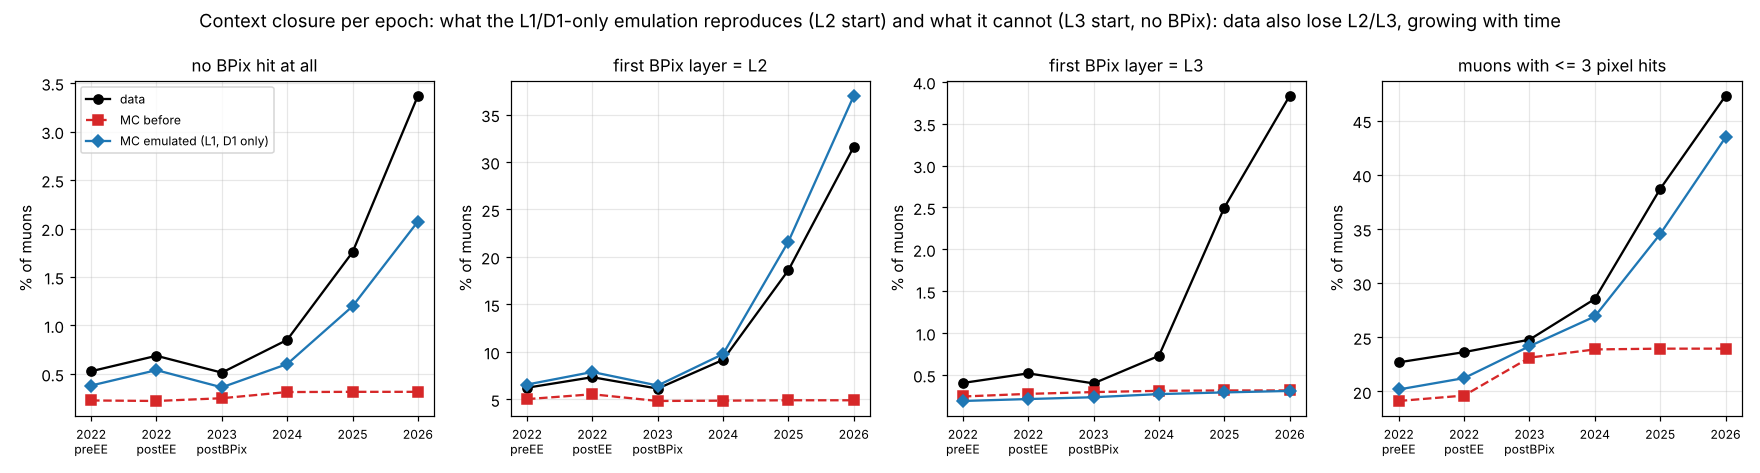
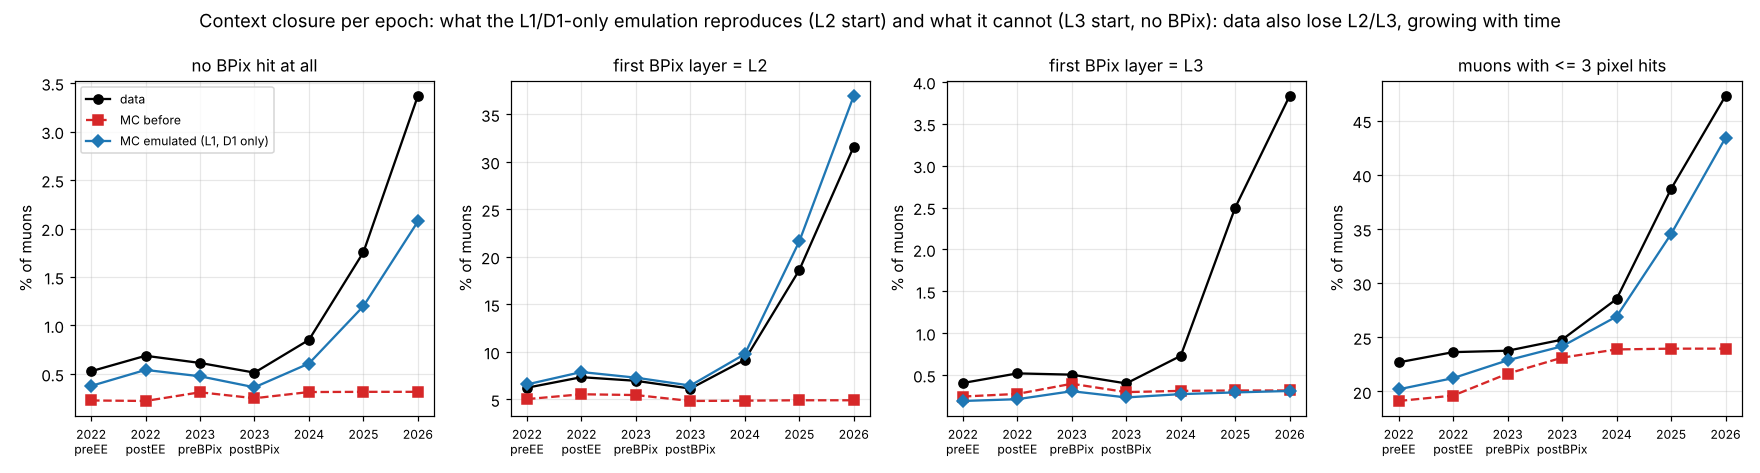
HITEMU.md 10.13: route A closes in all seven epochs (2025, 2026 added); figures refreshed with the complete rerun
Claude-Session: https://claude.ai/code/session_01RJFvZDqk7RAuPdwvriR8KC

diff --git a/HITEMU.md b/HITEMU.md
@@ -424,7 +424,7 @@ With routes the same page gains three curves. Until they are run on real data, h
 
 With route B the last step (6) is to retrain covflow's MC side on the emulated MC (`WRITE_TREE = 1` in `run_hitemu.csh`; `emu_<epoch>_routeB.json` lists which branches are replaced).
 
-**Status after the per-epoch run with flows (section 10.13, 8 Oct 2026): route A.** It closes on the dead-cell target in every epoch (L1: within 0.03, 2024: −0.008), route B does not. Route A is split into an MC-only morph plus the usual covflow, so the emulated MC tree needs no retraining (`--tree-route A`, the default).
+**Status after the per-epoch run with flows (section 10.13, 8 Oct 2026): route A.** It closes on the dead-cell target in every epoch (L1: within 0.03; 2024 −0.008, 2025 −0.010, 2026 −0.003), route B does not. Route A is split into an MC-only morph plus the usual covflow, so the emulated MC tree needs no retraining (`--tree-route A`, the default).
 
 ---
 
@@ -874,7 +874,7 @@ Ranked by how much they matter for the analysis. "Section" points to the explana
 | 7 | **D1 is starved in the small epochs:** up to 54% of the D1 probes of a range take their value from neighbouring ranges (2023_preBPix range 2; 2022_preEE 27–33%) | Range size is set by L1 only (≥ 40 probes per L1 cell); D1 has fewer probes per cell | moderate: D1 in 2022–23 is followed with a delay | 10.9 |
 | 8 | **Mixture test fails for D1 in 2022–2023 data**: W0 has 19–38% wider σ(dxy) than D0 (KS 0.17–0.29) | Not statistics: the "dead" D1 cells of 2022–23 are the disk's outer ring (94–100% of D0 probes at r > 13.8 cm), where data and MC disk radii differ. **Fixed:** data D0 cells must be alive in MC | the test was comparing with the wrong population | 10.10 |
 | 9 | **Route B is skipped in 2022_preEE and 2023_postBPix**; elsewhere it moves σ(dxy) by only 0.02–0.03 in log10 out of 0.2–0.27; the D1 hit errors sit at the 500 µm bound | Too few dead cells for a fit (early epochs); one V per \|η\| bin pinned by non-PD tracks (known, section 9.8) | none any more: **route B is dropped** (route A closes; B, final is worse than no correction, section 10.13) | 10.11, 10.13 |
-| 10 | **Files and logs missing from the copy**: `2022_preEE/noL1_mc` and `2023_preBPix/emu` are empty folders, though the summary says OK; only two logs (2022_preEE steps 1–2) | Partial copy from t3ui07 | only for this review | 10.1 |
+| 10 | **Files and logs missing from the copy** (first run) | Partial copy from t3ui07 | **solved** in the rerun | 10.1 |
 | 11 | **Closure residuals all negative on L1/D1 (−0.04 to −0.15%)** in the early epochs | The floor 0.2 on w_nohit (fixed: default 0 since the mask commit) | small; gone at the next run | 10.3 |
 | 12 | 2022_preEE and 2022_postEE both use `pu_weight_2022` | Probably one 2022 PU profile in the ntuples; the two MC samples differ (Summer22 / Summer22EE), so the maps differ | minor; check the pre/post-EE PU profiles | 10.1 |
 
@@ -882,13 +882,13 @@ Ranked by how much they matter for the analysis. "Section" points to the explana
 
 ![status](docs/hitemu_figs/e08_status.png)
 
-*Per epoch (rows) and step (columns). Green: output present. Yellow: the summary says the step ran, but its files are not in the copy on the Mac. Red: route B could not run (no hit-error fit, see 10.11). Grey: route A never ran, in any epoch, because no trained flows were found.*
+*Per epoch (rows) and step (columns), for the rerun of 8 October with the correct flow directory. Green: output present. Red: route B could not run (no hit-error fit, see 10.11). In the first run (7 October) route A was missing everywhere (no flows found under the wrong `RUNS` tag), and two outputs plus most logs were missing from the copy; both are solved.*
 
 | epoch | data runs | run ranges | selected data events | MC events | MC PU weight | L1 ε data / MC | D1+ ε data / MC | D1− ε data / MC |
 |---|---|---|---|---|---|---|---|---|
 | 2022_preEE | 131 (355862–357900) | 3 | 238k | 0.31M | pu_weight_2022 | 0.929 / 0.944 | 0.960 / 0.967 | 0.968 / 0.986 |
 | 2022_postEE | 182 (359569–362760) | 7 | 928k | 1.14M | pu_weight_2022 | 0.915 / 0.940 | 0.957 / 0.970 | 0.963 / 0.986 |
-| 2023_preBPix | 125 (367095–368823) | 6 | 685k | (not copied) | pu_weight_2023 | 0.920 / 0.938 | 0.953 / 0.963 | 0.968 / 0.983 |
+| 2023_preBPix | 125 (367095–368823) | 6 | 685k | 0.67M | pu_weight_2023 | 0.920 / 0.938 | 0.953 / 0.963 | 0.968 / 0.983 |
 | 2023_postBPix | 43 (369927–370790) | 4 | 364k | 0.30M | pu_weight_2023 | 0.930 / 0.946 | 0.947 / 0.958 | 0.965 / 0.982 |
 | 2024 | 451 (379416–386951) | **8 (cap)** | 3.33M | **3.63M** | pu_weight_2024 | 0.894 / 0.946 | 0.952 / 0.959 | **0.893 / 0.871** |
 | 2025 | 458 (391688–398860) | **8 (cap)** | 3.25M | **3.63M (same)** | pu_weight_2025 | 0.773 / 0.945 | 0.914 / 0.960 | 0.821 / 0.879 |
@@ -896,13 +896,13 @@ Ranked by how much they matter for the analysis. "Section" points to the explana
 
 *Hit efficiency ε in nominal acceptance, MC averaged on the data illumination (as in the per-cell closure). D1− in 2024 is the only place where data is more efficient than MC (10.5).*
 
-**Route A (#1).** The driver looks for `$RUNS/<epoch>/mu1/task_0/covflow.json` and `…/mu2/…`. Not one epoch had both, so every emulation ran with route B alone (`OK_B`) and the route pages compare *raw* MC covariances with data. Check on t3ui07:
+**Route A (#1), solved 8 Oct.** The driver looks for `$RUNS/<epoch>/mu1/task_0/covflow.json` and `…/mu2/…`. In the first run not one epoch had both (wrong `RUNS` tag), so every emulation ran with route B alone (`OK_B`). With `RUNS = …/run3_epochs_05oct26_trgmatch_e1200` all seven epochs ran route A (section 10.13). The check, for the future:
 
 ```
 ls /work/manzoni/correct_track_covariance/covflow-runs/run3_epochs_05oct26/*/mu?/task_0/covflow.json
 ```
 
-**Missing files (#10).** On t3ui07 they should be in `hitemu/2022_preEE/noL1_mc/`, `hitemu/2023_preBPix/emu/` and `hitemu/logs/` (one log per epoch and step). The 2022_preEE emulation ran without route B (`OK_noB`), so its MC hit-error fit was empty too. Copy them over and the 2023_preBPix entries in the plots below fill in.
+**Missing files (#10), solved 8 Oct.** The rerun's copy is complete (all outputs, one log per epoch and step); the 2023_preBPix entries in the plots below are filled in. The 2022_preEE MC hit-error fit is empty too (0–16 D0 tracks per bin), hence `OK_A_noB` there.
 
 ### 10.2 One look at all of Run 3
 
@@ -920,7 +920,7 @@ How to read it:
 
 ![closure per epoch](docs/hitemu_figs/e02_closure_epochs.png)
 
-*Bars (left axis): hit efficiency ε in acceptance for data (black), MC before (red), MC after emulation (blue), per epoch. Right axis, %: emulated − data as observed (diamonds), and as expected from the kill maps alone, with the floor 0.2 used in this run (orange tick) and with the new default floor 0 (green tick). 2023_preBPix: the emulation output was not copied.*
+*Bars (left axis): hit efficiency ε in acceptance for data (black), MC before (red), MC after emulation (blue), per epoch. Right axis, %: emulated − data as observed (diamonds), and as expected from the kill maps alone, with the floor 0.2 used in this run (orange tick) and with the new default floor 0 (green tick). Since the rerun all seven epochs are in.*
 
 - Everywhere except 2024 D1−, emulated − data is between −0.04% and −0.30%.
 - **Early epochs (2022–2023):** observed ≈ orange tick. The residual is the old floor 0.2 on w_nohit (section 9.9). Without the floor (green) it nearly vanishes. **Fixed** by the default `--min-weight 0` (#11).
@@ -1092,9 +1092,9 @@ This is the missing L2/L3 (and D2) emulation of section 9.2, now seen in every e
    - optionally the selection-loss weight of 10.4 (#4).
 7. **Route B per-track V** (#9), only if route A turns out insufficient.
 
-### 10.13 Route A on real data (rerun of 8 October, 2022–2024)
+### 10.13 Route A on real data (rerun of 8 October, all seven epochs)
 
-*Same kill maps and no-L1 outputs as on 7 October (identical files); the emulation rerun with the trained flows of `run3_epochs_05oct26_trgmatch_e1200`. 2025–2026 were still running. Route B: no hit-error fit in 2022_preEE and 2023_postBPix, so there route A alone.*
+*Same kill maps and no-L1 outputs as on 7 October (identical files); the emulation rerun with the trained flows of `run3_epochs_05oct26_trgmatch_e1200`, all seven epochs (summary: `OK_AB` everywhere except 2022_preEE and 2023_postBPix, `OK_A_noB`: no hit-error fit for route B there). The whole chain took 4 h 10 min, of which the 2024–2026 MC passes with the flows on CPU ~1 h.*
 
 ![route A per epoch](docs/hitemu_figs/e10_routeA_epochs.png)
 
@@ -1109,8 +1109,10 @@ This is the missing L2/L3 (and D2) emulation of section 9.2, now seen in every e
 | 2023_preBPix | +0.004 / +0.009 (0.009) | +0.001 / +0.001 (0.005) | −0.260 |
 | 2023_postBPix | −0.001 / +0.019 (0.029) | +0.002 / +0.002 (0.007) | −0.294 |
 | 2024 | **−0.008 / −0.004 (0.022)** | −0.002 / −0.001 (0.005) | −0.233 |
+| 2025 | **−0.010 / −0.002 (0.027)** | −0.006 / −0.002 (0.018) | −0.242 |
+| 2026 | **−0.003 / −0.001 (0.010)** | −0.002 / +0.001 (0.006) | −0.265 |
 
-- From a 40–50% too small σ(dxy) to within 2% (6% at most in 2022, where the dead-cell target has only 600–14k tracks).
+- From a 40–50% too small σ(dxy) to within 2% (6% at most in 2022, where the dead-cell target has only 600–14k tracks). **2026, the year with the most L1 loss (36% of the MC L1 hits removed), closes best: −0.003.**
 - The right column is expected to close: covflow was trained on data muons without L1, so f_data at that context reproduces them. **The left column is the real test.** Muons that lost L1 in a dead module are a population covflow never singled out, and route A reproduces them too. That is the mixture test (section 6) passing at the level of the full covariance.
 - The beam-spot IP significance, with the parameters smeared by N(0, C′ − C), matches data over three orders of magnitude (2024):
 
@@ -1122,28 +1124,40 @@ This is the missing L2/L3 (and D2) emulation of section 9.2, now seen in every e
 
 *Real page, 2024: beam-spot IP significance of the muons without L1. Route A (green) follows data (black) out to 40σ; MC before and both route B variants have tails 3–6× too high.*
 
-**D1.** Against all data muons without D1, route A is within +0.02 everywhere. Against "dead cells" it is +0.03 to +0.10 in 2022–2023, and +0.001 in 2024. In 2022–2023 that target is the disk's outer ring, not dead modules (section 10.10): those tracks physically miss the disk. The page shows it: route A (green) lies on "all without D1" (dotted), the "dead-cell" histogram (black) is the odd one out.
+**D1.** Against all data muons without D1, route A is within +0.03 everywhere (2025: +0.009; 2026: +0.014 dxy, +0.026 dsz). Against "dead cells" it is +0.03 to +0.10 in 2022–2023, +0.001 in 2024, +0.009 in 2025 and +0.018 / +0.029 in 2026. In 2025–2026 the MC before is −0.17 to −0.24, so route A removes ~90% of it; what is left in 2026 sits in the high-σ shoulder (muons that lost D1 and rely on few other hits), slightly too populated in route A (page below). The 2022–2023 dead-cell numbers are the outer-ring artefact: In 2022–2023 that target is the disk's outer ring, not dead modules (section 10.10): those tracks physically miss the disk. The page shows it: route A (green) lies on "all without D1" (dotted), the "dead-cell" histogram (black) is the odd one out.
 
 ![2023 D1](docs/hitemu_figs/r15_2023preBPix_D1_routes.png)
 
 *Real page, 2023_preBPix, muons that lost D1.*
+
+![2026 D1](docs/hitemu_figs/r18_2026_D1_routes.png)
+
+*Real page, 2026, muons that lost D1. Route A (green) follows the data target (black) from −0.24 MC-before; the shoulder at log10 σ(dxy) ≈ −2.1 is a little too high.*
 
 Since 8 October the dead-cell target in `emulate_hit_loss.py` uses the same rule as the no-L1 study: the cell must work in MC (`--dead-any-mc` for the old behaviour).
 
 **Route B is dropped.**
 
 - **B, raw** (hit removed with fitted errors) moves σ(dxy) by 0.02–0.03 out of 0.23–0.30. It does not even close on MC's own muons without L1 (−0.15 to −0.22).
-- **B, final** (B, raw, then covflow) is worse than doing nothing in 2024: −0.52 in dxy. Only 35% of the tracks get a larger σ(dxy), and 26% end at the lower edge of the histogram. The reason: B, raw produces covariances that the MC flow never saw at that context (off the MC distribution), and f_MC maps them to extreme latent values.
+- **B, final** (B, raw, then covflow) is worse than doing nothing in 2024 (−0.52 in dxy) and 2026 (−0.79). In 2024 only 35% of the tracks get a larger σ(dxy), and 26% end at the lower edge of the histogram; in 2026 there are spikes at both edges of σ(q/p), σ(dxy) and σ(dsz) (page below). The reason: B, raw produces covariances that the MC flow never saw at that context (off the MC distribution), and f_MC maps them to extreme latent values.
 
 ![A vs B](docs/hitemu_figs/r14_2024_L1_AvsB.png)
 
 *Real page, 2024: route A against route B, final, track by track. No correlation: route B final is noise around route A.*
 
+![2026 L1](docs/hitemu_figs/r16_2026_L1_routes.png)
+
+*Real page, 2026, muons that lost L1. Route A (green) on the target (black) in all five parameters; route B final (orange, solid) piles up at the histogram edges.*
+
+![2026 IP significance](docs/hitemu_figs/r17_2026_L1_ipsig.png)
+
+*Real page, 2026: beam-spot IP significance of the muons without L1. Route A follows data; the others have tails several times too high.*
+
 This settles item 9 of section 10.0 differently than planned: there is no need to rescue route B. It stays in the code as a diagnostic.
 
 **Route A, diagnostics.**
 
-- "not PD": for 97% of the L1 tracks, C′_A − C has a small negative eigenvalue (median −0.6% of the largest). For D1, 85–94%, and the negative part is larger (median −5% to −37%). Only 54–86% of the D1 tracks get a larger σ(dxy).
+- "not PD": for 97% of the L1 tracks in every epoch, C′_A − C has a small negative eigenvalue (median −0.6% of the largest). For D1 in 2022–2024, 85–94%, and the negative part is larger (median −5% to −37%); only 54–86% of the D1 tracks get a larger σ(dxy). In 2025–2026, where losing D1 changes more, it is better: 71–75% not PD with median −0.5% to −0.8%, and 98–99% of the D1 tracks get a larger σ(dxy).
 - Why: C′_A contains **two** changes, the hit loss and the covflow MC→data correction itself. The second can shrink σ in some directions, and for D1 it is as large as the hit loss (removing a D1 hit changes little).
 - This only matters for the smearing of the track parameters: δ ~ N(0, C′ − C) should come from the hit loss alone.
 
